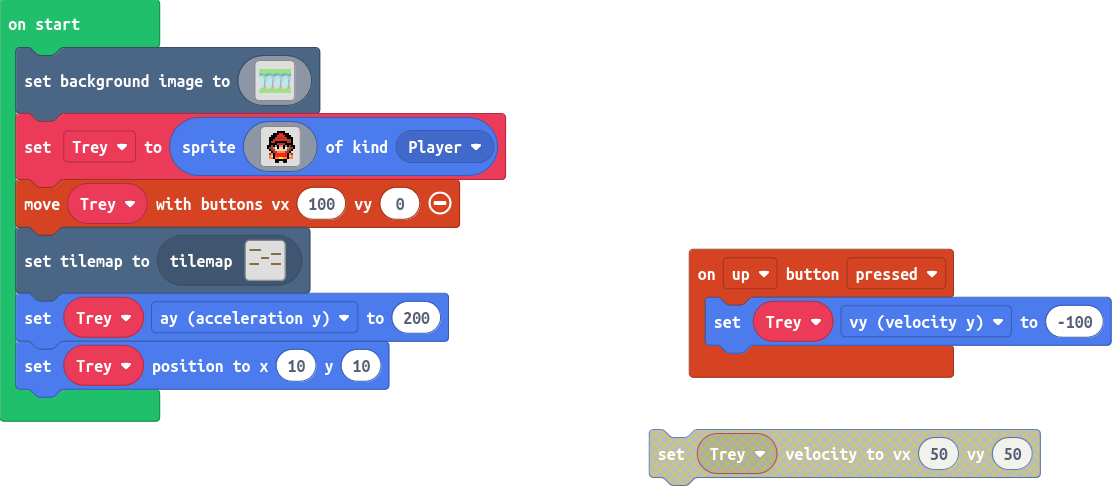
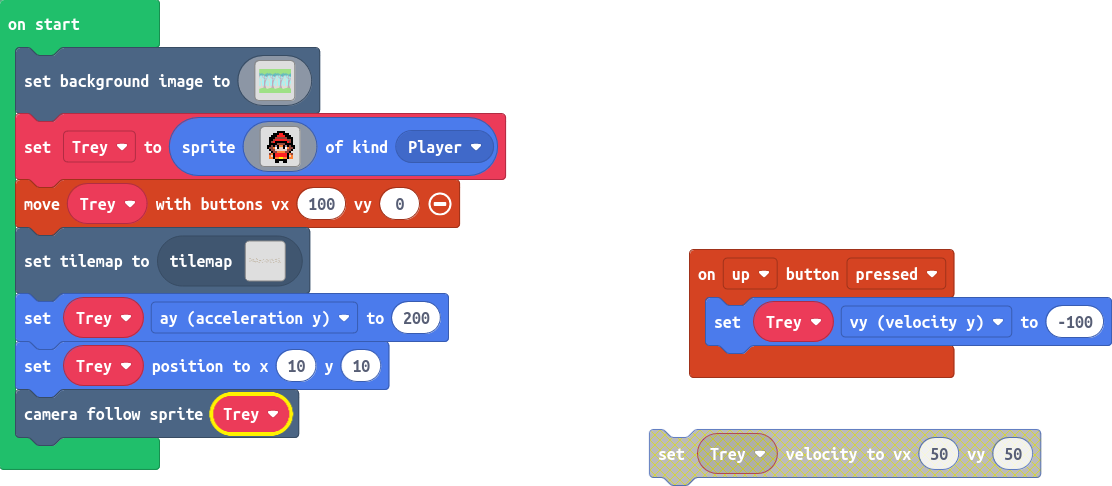
AAFSKSHGIUSGHSUIGJK

diff --git a/tilemap.g.ts b/tilemap.g.ts
@@ -12,23 +12,23 @@ namespace myTiles {
     helpers._registerFactory("tilemap", function(name: string) {
         switch(helpers.stringTrim(name)) {
             case "level1":
-            case "level1":return tiles.createTilemap(hex`1000100000000000000000000000000000000000000000000000000000000000000000000202020202020000000000000000000000000001000000000000000000000000000000010000000000000002020202020000010101000000000000000000000000000001010002020202000000000000000001010101000000000000000000000000000000000000000000000000000002020202020000000000000202020202000000000000000000000000000000000000000000000000000000000000000000000000000000000000000000000000000000000000000000000000000000000000000000000000000000000000000000000000000000000000000000000000`, img`
-. . . . . . . . . . . . . . . . 
-. . . . . . . . . . . . . . . . 
-2 2 2 2 2 2 . . . . . . . . . . 
-. . . . . . . . . . . . . . . . 
-. . . . . . . . . . . 2 2 2 2 2 
-. . . . . . . . . . . . . . . . 
-. . . . . . 2 2 2 2 . . . . . . 
-. . . . . . . . . . . . . . . . 
-. . . . . . . . . . . . . . . . 
-2 2 2 2 2 . . . . . . 2 2 2 2 2 
-. . . . . . . . . . . . . . . . 
-. . . . . . . . . . . . . . . . 
-. . . . . . . . . . . . . . . . 
-. . . . . . . . . . . . . . . . 
-. . . . . . . . . . . . . . . . 
-. . . . . . . . . . . . . . . . 
+            case "level1":return tiles.createTilemap(hex`6400100000000000000000000000000000000000000000000000000000000000000000000000000000000000000000000000000000000000000000000000000000000000000000000000000000000000000000000000000000000000000000000000000000000000000000000000000000000000000000000000000000000000000000000000000000000000000000000000000000000000000000000000000000000000000000000000000000000000000000000000000000000000000000000000000000020200000000000202020202020000000000000000000000000000000002020200000000000000000000000000000000000000000000000000000000000000000000000000000000000000000000000000000000000000000000000000000000000000020000000000000000000001000000000000000000000000000000000000000000000000000000000000000000000000000000000000000000000000000000000000000000000000000000000000020202020000000000000000000002020202000000000000000000000000000000010000000000000002020202020000000000000000020000000000000000000000000000000000000000000000000000000000000000000000000000000000000000000000000000000000000000020202000000000000000000000000000000000000010101000000000000000000000000000000000000000002020200000000000000000000000000000000020202000000000000000202020200000000000000020000000000000000000000000000000000000000000000000000000000000000000000000001010002020202000000000000000000000000000000000000000000000000000000000000000000020000000000000000000000000000000000000000000202000000000000000000000000000000000000000000000000000000000000000000000001010101000000000000000000000000000000000000000000000000000002020202000000000000000000000000000000000000000000000000000000000000000000000000000002000000000000000000000000000000000002020200000000000000000000000000000000000000000000000000000000000000000000000000020000020202000000000000000000000000000000000000000002020200000000000000000000000000020202000000000000000000000000000000000000000000000002020202020000000000000202020202000000000000000000000000000000000000000000020000000000000000000000000202000000000000000002020000000000000000000000000000000000000000000000000202000000000000000002000000000000000000000000000000000000000000000000000000000000000000000000000000000000000000000000000000000200000000000000000000000000000000000000000000000000000000000000000002020200000000000000000002020000000000000000000000000000000000000002020202000000020202020200000000000000000000000000000000000000000000000000000000000000000000000000000000000000000000000000000000000000020000000000000000000000000000000000000000000000000000000000000000000000020200000000000000000000000000000000000000000000000000000000000000000002020202000000000000000202020000000000000000000000000000000000000000000000000000000000000000000000000000000000000000000000000000000000000000000000000000020202020000000000000002020200000000000000000000000000000000000000000000000002020000000000000000000000000000000000000000000202000000000200000000000000000000000000000000000000000000000000000000000000000000000000000000000000000000000000000000000000000000000000000000000000000000000000000000000202020200000000000000000000000200000000000202000000000000000000000000000000000000000000000000000000000000000000000000000000000000000000000000000000000000000000000000000000000000000000000000000000000000000000000000000000000000000000000000000000000000`, img`
+....................................................................................................
+....................................................................................................
+222222..............................................................................................
+....................................................................................................
+...........22222....................................................................................
+....................................................................................................
+......2222..........................................................................................
+....................................................................................................
+....................................................................................................
+22222......22222....................................................................................
+....................................................................................................
+....................................................................................................
+....................................................................................................
+....................................................................................................
+....................................................................................................
+....................................................................................................
 `, [myTiles.transparency16,myTiles.tile1,myTiles.tile3], TileScale.Sixteen);
         }
         return null;

diff --git a/main.ts b/main.ts
@@ -146,3 +146,4 @@ controller.moveSprite(Trey, 100, 0)
 tiles.setCurrentTilemap(tilemap`level1`)
 Trey.ay = 200
 Trey.setPosition(10, 10)
+scene.cameraFollowSprite(Trey)
